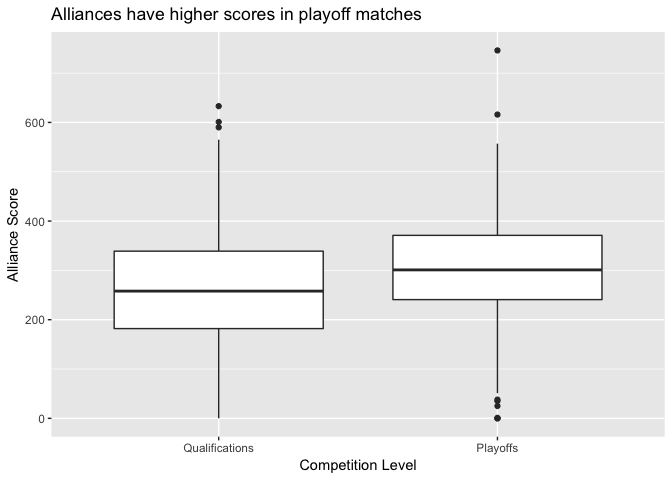
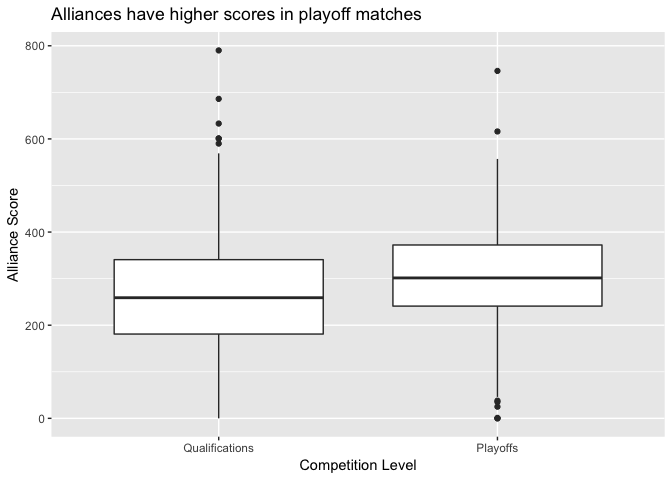
Blog post updates

diff --git a/2018_tba_w2_blog_post.md b/2018_tba_w2_blog_post.md
@@ -3,20 +3,71 @@ Week Two Match Analysis Using the TBA API and R
 Greg Marra
 3/8/2018
 
-FIRST® POWER UPS℠ is turning out to be a very interesting game! In this blog post, we'll use (The Blue Alliance API)\[<https://www.thebluealliance.com/apidocs/>\] and the R programming language to analyze the 2105 matches played so far this year.
+FIRST® POWER UP℠ is playing out to be a very interesting game! In this blog post, we'll use [The Blue Alliance API](https://www.thebluealliance.com/apidocs/) and the R programming language to analyze the 3743 matches played so far this year.
 
-*The code that generated this blog post is available on my github at <LINK>. Fork it, load it up in (RStudio)\[<https://www.rstudio.com/>\], and try it out! If you want to learn more about using R to do data science, I recommend ("R for Data Science" by Hadley Wickham and Garrett Grolemund)\[<http://r4ds.had.co.nz/>\], which is available for free online.*
+*The code for this blog post is available on my github at <https://github.com/gregmarra/frc-r>. Fork it, load it up in [RStudio](https://www.rstudio.com/), and try it out! If you want to learn more about using R to do data science, I recommend ("R for Data Science" by Hadley Wickham and Garrett Grolemund)(<http://r4ds.had.co.nz/>), which is available for free online.*
 
-Match Scores
-------------
+Box Plots
+---------
+
+In this blog post, I use box plots to visualize statistics of matches that have been played. A box plot shows the minimum, 25th percentile, median (or 50th percentile), 75th percentile, and maximum of the non-outlier values of a distribution, and shows the outliers as dots. If you aren't familiar with box plots, you can read more about them on Wikipedia: <https://en.wikipedia.org/wiki/Box_plot>
+
+Match Results
+-------------
+
+Particularly in a game with complex strategy like FIRST® POWER UP℠, teams have to decide on the best way to score more points than their opposing alliance. Teams need to decide how to most efficiently spend every second of the match. Is it better to try to tip the Scale right now, deactive the opponent's Switch, or focus on the Vault?
+
+One way to start to try to answer that question is to look at the score distribution among all matches, and the win margin of points between the winning alliance and the losing alliance. We can use box plots to easily visualize the results from all matches.
 
 ![](2018_tba_w2_blog_post_files/figure-markdown_github/match_score_distribution-1.png)
 
-The chart above is a boxplot, which shows the minimum, 25th percentile, median, 75th percentile, and maximum of the non-outlier values, with the outliers as dots. Unsurprisingly, scores are higher in playoff matches than in qualification matches.
-
 ![](2018_tba_w2_blog_post_files/figure-markdown_github/win_margins-1.png)
 
-Looking at win margins, we see that the median win margin in qualification matches is 143 while the median win margin in playoff matches is only 143, 14.5 points lower!
+Looking at win margins, we see that the median win margin in qualification matches is 148 while the median win margin in playoff matches is only 148, 17.5 points lower!
 
 How to Win
 ----------
+
+What scoring objective is deciding how matches are won and lost?
+
+In this analysis, I am lumping together ways of scoring points to group them with "what a robot focuses on doing": \* '''Auto''' - Points scored for crossing the line during the Autonomous period, excluding Scale and Switch ownership points \* '''Scale''' - Points scored from Scale ownership during the Autonomous and Teleoperated period, excluding points from the Boost powerup and ownership seconds from the Force powerup \* '''Switch''' - Points scored from Switch ownership during the Autonomous and Teleoperated period, excluding points from the Boost powerup and ownership seconds from the Force powerup \* '''Vault''' - Points scored for placing cubes in the Vault, scored by the Boost powerup, and ownership second points from the Force powerup, but not the Levitate powerup \* '''Endgame''' - Points scored for Endgame objectives, including by the Levitate powerup \* '''Foul''' - Points scored due to the other alliance's fouls
+
+![](2018_tba_w2_blog_post_files/figure-markdown_github/scoring_objective_margins-1.png)
+
+The Switch point margins are much smaller than the Scale point margins, both in Qualifications and Playoffs. In the typical match, the score margin created by the Switches isn't enough to overcome Scale scoring.
+
+![](2018_tba_w2_blog_post_files/figure-markdown_github/scale_margin_match_margin_comparison-1.png)
+
+In 86.4% of Qualification matches and 88.5% of Playoff matches, the alliance that wins the Scale wins the match. This game is truly a battle for the Scale!
+
+Lose the Scale, Win the Match
+-----------------------------
+
+Obviously it's good advice to try to outscore your opponent on the Scale, but if you're going to lose the Scale, how should you win the match?
+
+We can look at the matches where teams have overcome a Scale margin to win the match anyway. Below is a cumulative distribution function showing what percent of matches where a team lost the Scale but won the match a particular Scale margin or lower.
+
+![](2018_tba_w2_blog_post_files/figure-markdown_github/scale_margin_cdf-1.png)
+
+If you're behind on the Scale, you've got to make up the points somewhere else. We can get a sense for what matters by looking at each other scoring objective's margin, and calculating it as the percent of the Scale margin the alliance had to overcome. If you lost the Scale by 50 points, but won the Switch by 25 points and won the Endgame by 30 points, we'd say the Switch made up 50% of the Scale margin, and the Endgame made up 60% of the Scale margin, so the alliance made up 110% of the Scale margin in total.
+
+Here are some examples matches where an alliance lost the Scale by a margin of at least 25 points, but overcame that margin through other scoring objectives to win the match. I've removed matches where fouls were more than 50% of the made up margin, because it's a bad strategy to rely on your opponent giving you foul points!
+
+![](2018_tba_w2_blog_post_files/figure-markdown_github/lose_scale_win_match_examples-1.png)
+
+This gets us a sense for example matches, but this visualization gets too crowded if we try to repeat this for all of the matches where the Scale loser won the match. Instead, we can look at the statistics of the "% of Scale made up" margins for the other scoring objectives.
+
+![](2018_tba_w2_blog_post_files/figure-markdown_github/lose_scale_win_match_distribution-1.png)
+
+Here it's clear that the Switch is the scoring objective that's making up most of the difference. In the median Scale comeback match, the Switch is accounting for 83.2% of the margin to make up, while the other scoring objectives' median percent margins made up are below 30%. This makes sense, as the other objectives have a smaller total point range available, and it is more likely the two alliance will perform similarly at those objectives.
+
+### The Takeaway
+
+If you're going to lose the Scale, make sure your Switch is always on and your opponent's Switch is always off, which will keep the total score margin between your alliances at 0. Then slightly outperform the opposing alliance at the Vault or Endgame, and you've got the match in the bag.
+
+Further Analysis
+----------------
+
+We're only partway through Week 2 of FIRST® POWER UP℠, so there's plenty left to learn about this year's game. It will be interesting to repeat this analysis, and look at whether the winning strategies are evolving week to week. If you want to take this further, instructions for replicating my analysis are at the top of this post!
+
+Go teams!

diff --git a/README.md b/README.md
@@ -1,10 +1,19 @@
 # FRC R
-Playing around with R to look at some FRC data, using the The Blue Alliance csv data dumps from github.com/the-blue-alliance/the-blue-alliance-data/
+Playing around with R to look at some FRC data, using the The Blue Alliance API.
 
-I've been using R for Data Science to learn R, which is available online for free at http://r4ds.had.co.nz/
+I've been using the book R for Data Science to learn R, which is available online for free at http://r4ds.had.co.nz/
 
-## Example
-Here's the type of stuff this makes pretty easy!
+## TBA API
+
+The file `get_tba_data.R` has a few helper methods to access data from The Blue Alliance API. You can see its usage in the .Rmd notebooks here.
+
+## Analysis
+
+Here are a few of the analyses I've done with this:
+* [2018 Week Two Match Analysis](https://github.com/gregmarra/frc-r/blob/master/2018_tba_w2_blog_post.md)
+* [2018 Team Growth](https://github.com/gregmarra/frc-r/blob/master/2018_teams.md)
+
+Here are fast examples of plots this makes easy:
 
 ![Rookie Teams by Country](https://github.com/gregmarra/frc-r/blob/master/rookies_by_country.png "Rookie Teams by Country")
 
